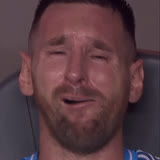
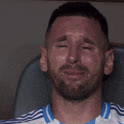
Messi arrumado

diff --git a/paginas/pag1.html b/paginas/pag1.html
@@ -390,8 +390,8 @@
               <p class="assunto-posts">12,4 mil posts</p>
             </div>
             <figure class="assunto-gif">
-              <img class="gif-animado" src="../img/messi-chorando.gif" alt="GIF de Lionel Messi chorando" width="160" height="160" loading="lazy">
-              <img class="gif-parado" src="../img/messi-chorando-parado.jpg" alt="GIF de Lionel Messi chorando" width="160" height="160" loading="lazy">
+              <img class="gif-animado" src="/img/messi2.gif" alt="GIF de Lionel Messi chorando" width="160" height="160" loading="lazy">
+              <img class="gif-parado" src="/img/messi-chorando-parado.jpg" alt="GIF de Lionel Messi chorando" width="160" height="160" loading="lazy">
             </figure>
             <details class="mais-opcoes">
               <summary aria-label="Mais opções sobre #DeployDeSexta"><span aria-hidden="true">···</span></summary>
